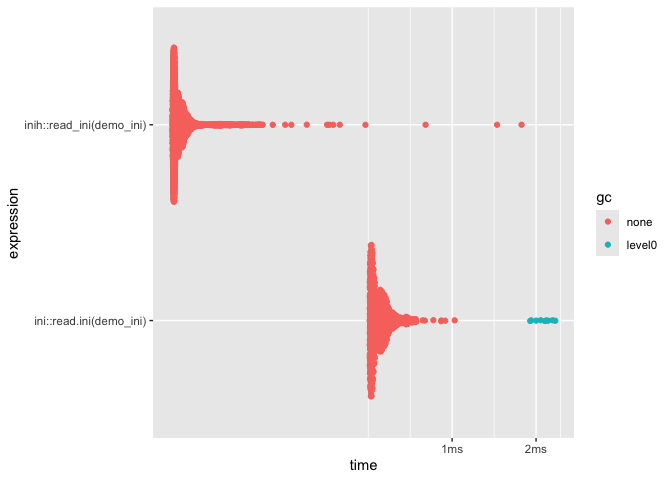
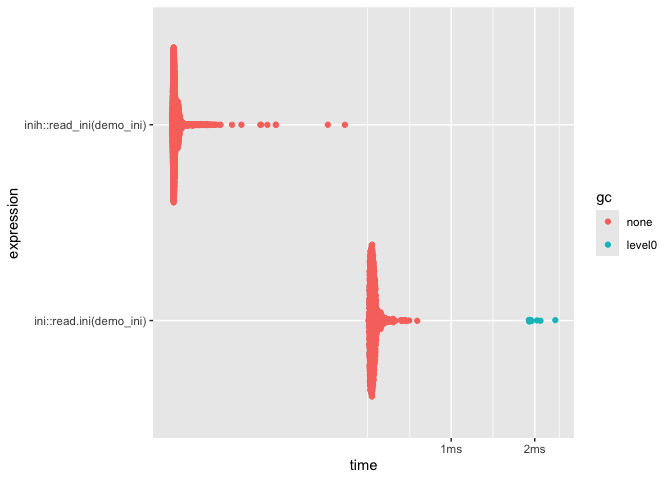
add r-universe badge

diff --git a/README.md b/README.md
@@ -7,6 +7,8 @@
 status](https://www.r-pkg.org/badges/version/inih)](https://CRAN.R-project.org/package=inih)
 [![Codecov test
 coverage](https://codecov.io/gh/DyfanJones/inih/graph/badge.svg)](https://app.codecov.io/gh/DyfanJones/inih)
+[![inih status
+badge](https://dyfanjones.r-universe.dev/inih/badges/version)](https://dyfanjones.r-universe.dev/inih)
 <!-- badges: end -->
 
 A simple wrapper of the [`inih`](https://github.com/benhoyt/inih) C
@@ -16,8 +18,16 @@ library for reading and writing INI files in R.
 
 You can install the development version of inih like so:
 
+Github:
+
 ``` r
 remotes::install_github("dyfanjones/inih")
+```
+
+r-universe:
+
+``` r
+install.packages("inih", repos = c("https://dyfanjones.r-universe.dev", "https://cloud.r-project.org"))
 ```
 
 ## Example
@@ -91,8 +101,8 @@ demo_ini <- system.file("demo.ini", package = "inih")
 #> # A tibble: 2 × 6
 #>   expression                 min median `itr/sec` mem_alloc `gc/sec`
 #>   <bch:expr>               <dbl>  <dbl>     <dbl>     <dbl>    <dbl>
-#> 1 inih::read_ini(demo_ini)  1      1         5.11       NaN      NaN
-#> 2 ini::read.ini(demo_ini)   5.10   5.18      1          Inf      Inf
+#> 1 inih::read_ini(demo_ini)  1      1         5.14       NaN      NaN
+#> 2 ini::read.ini(demo_ini)   5.09   5.17      1          Inf      Inf
 
 ggplot2::autoplot(bm)
 #> Loading required namespace: tidyr
